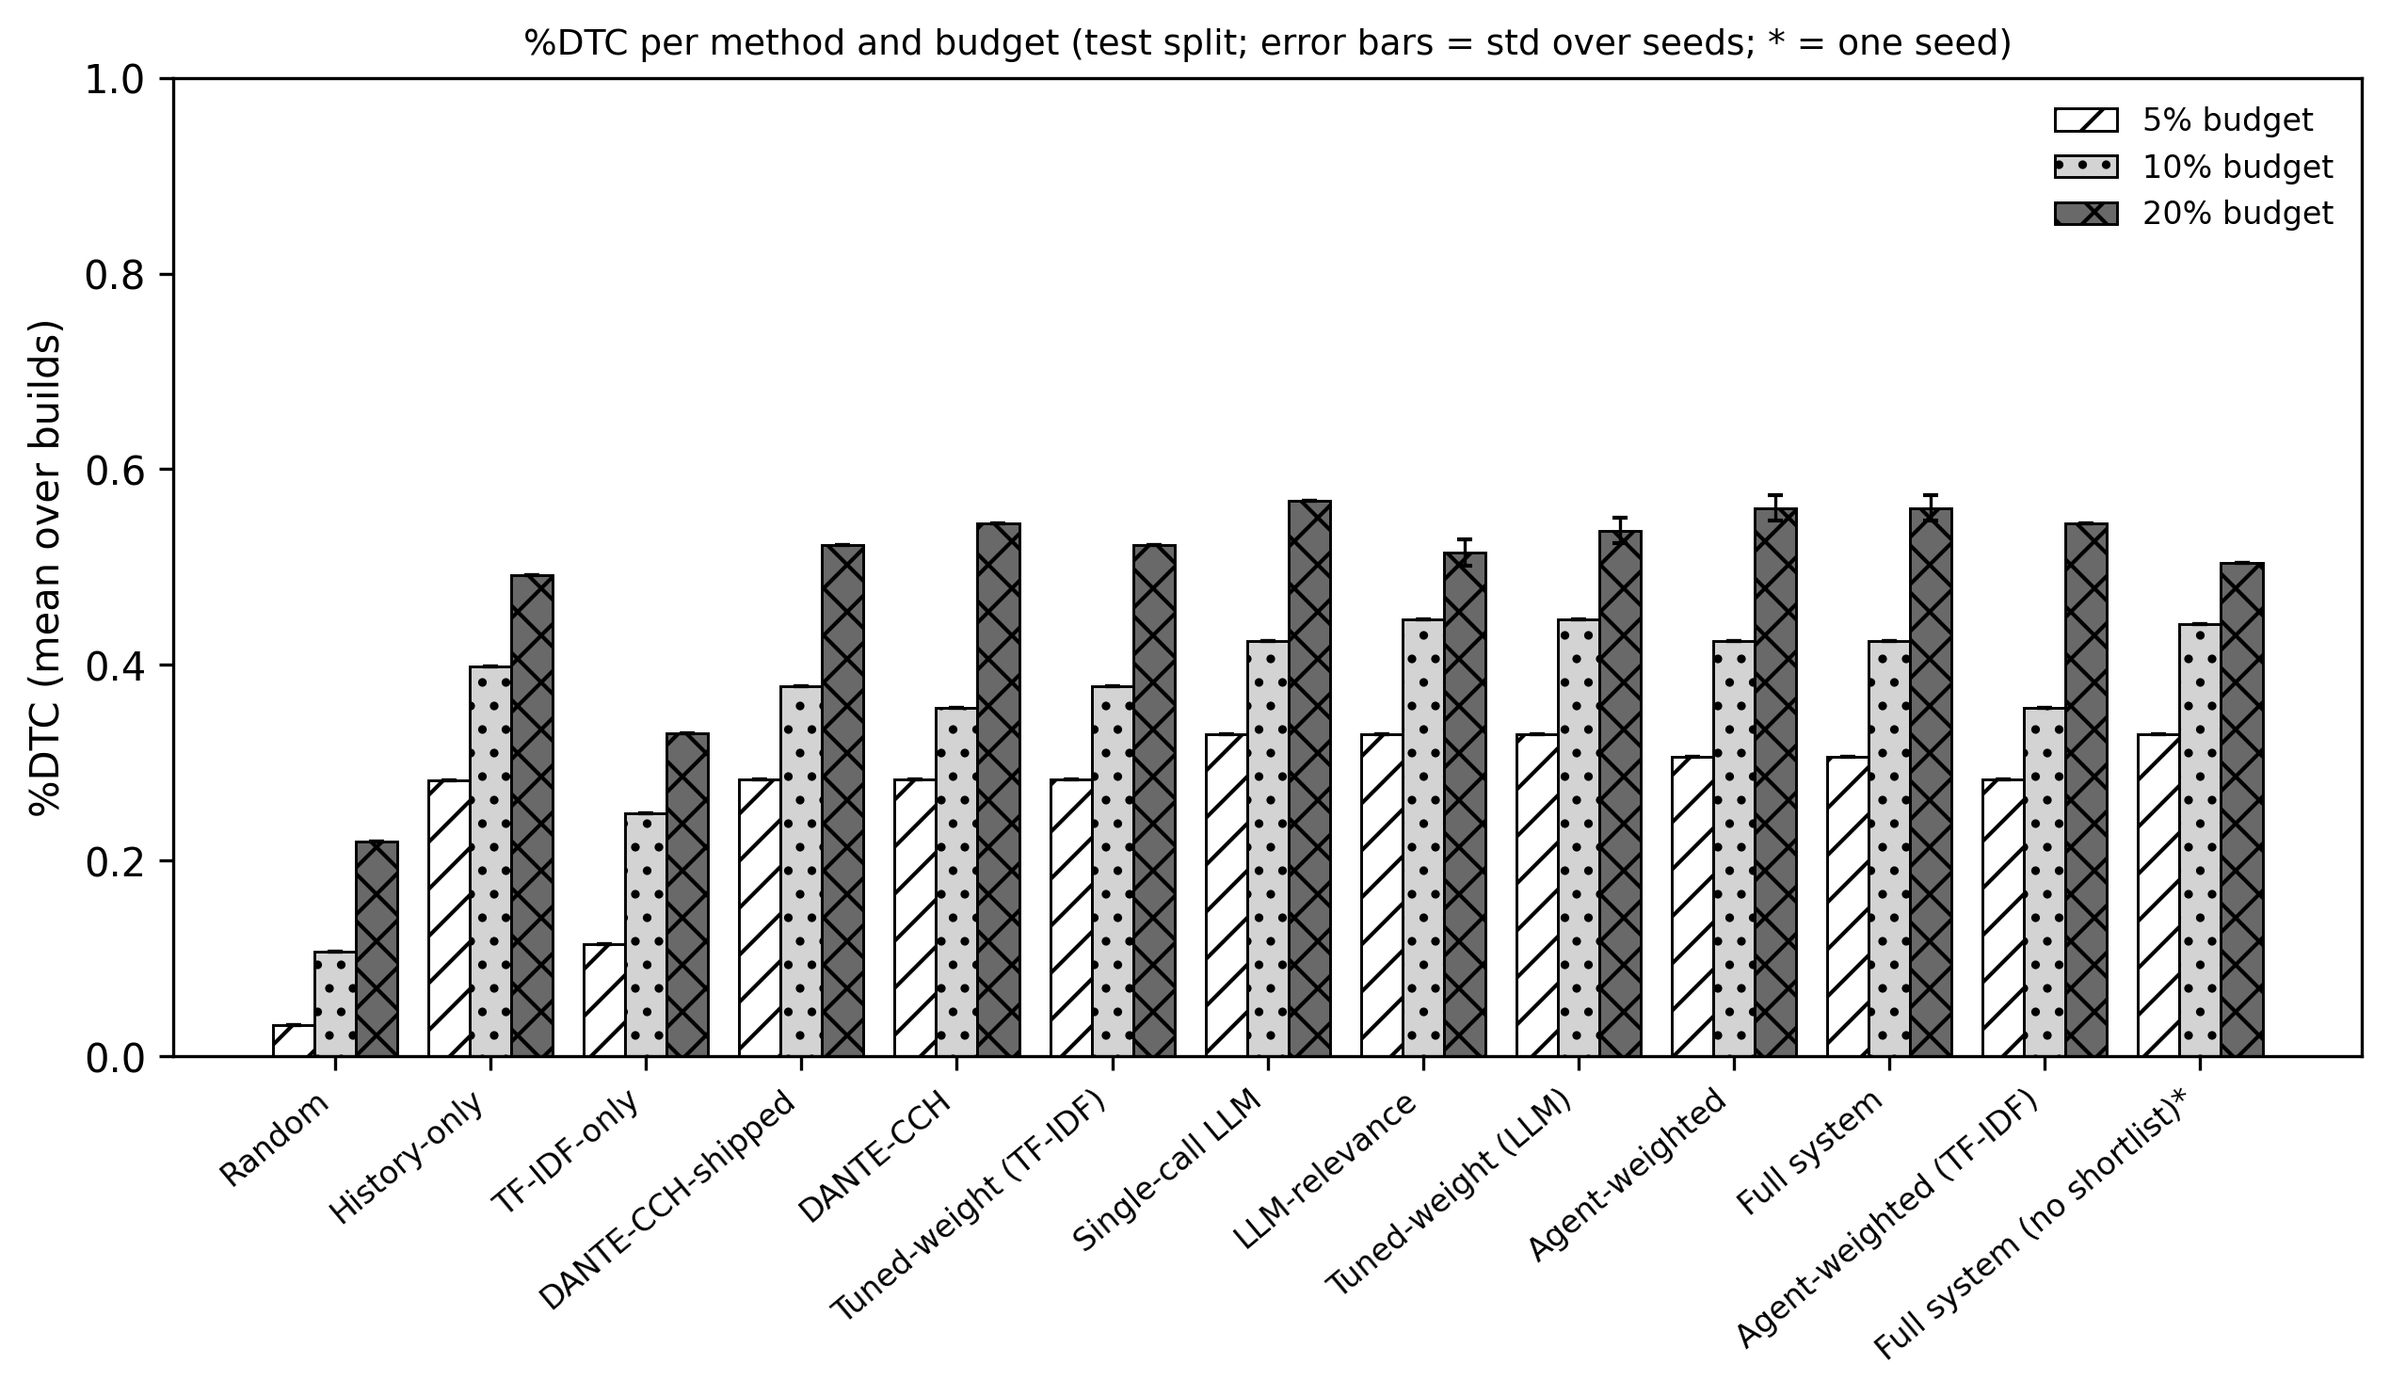
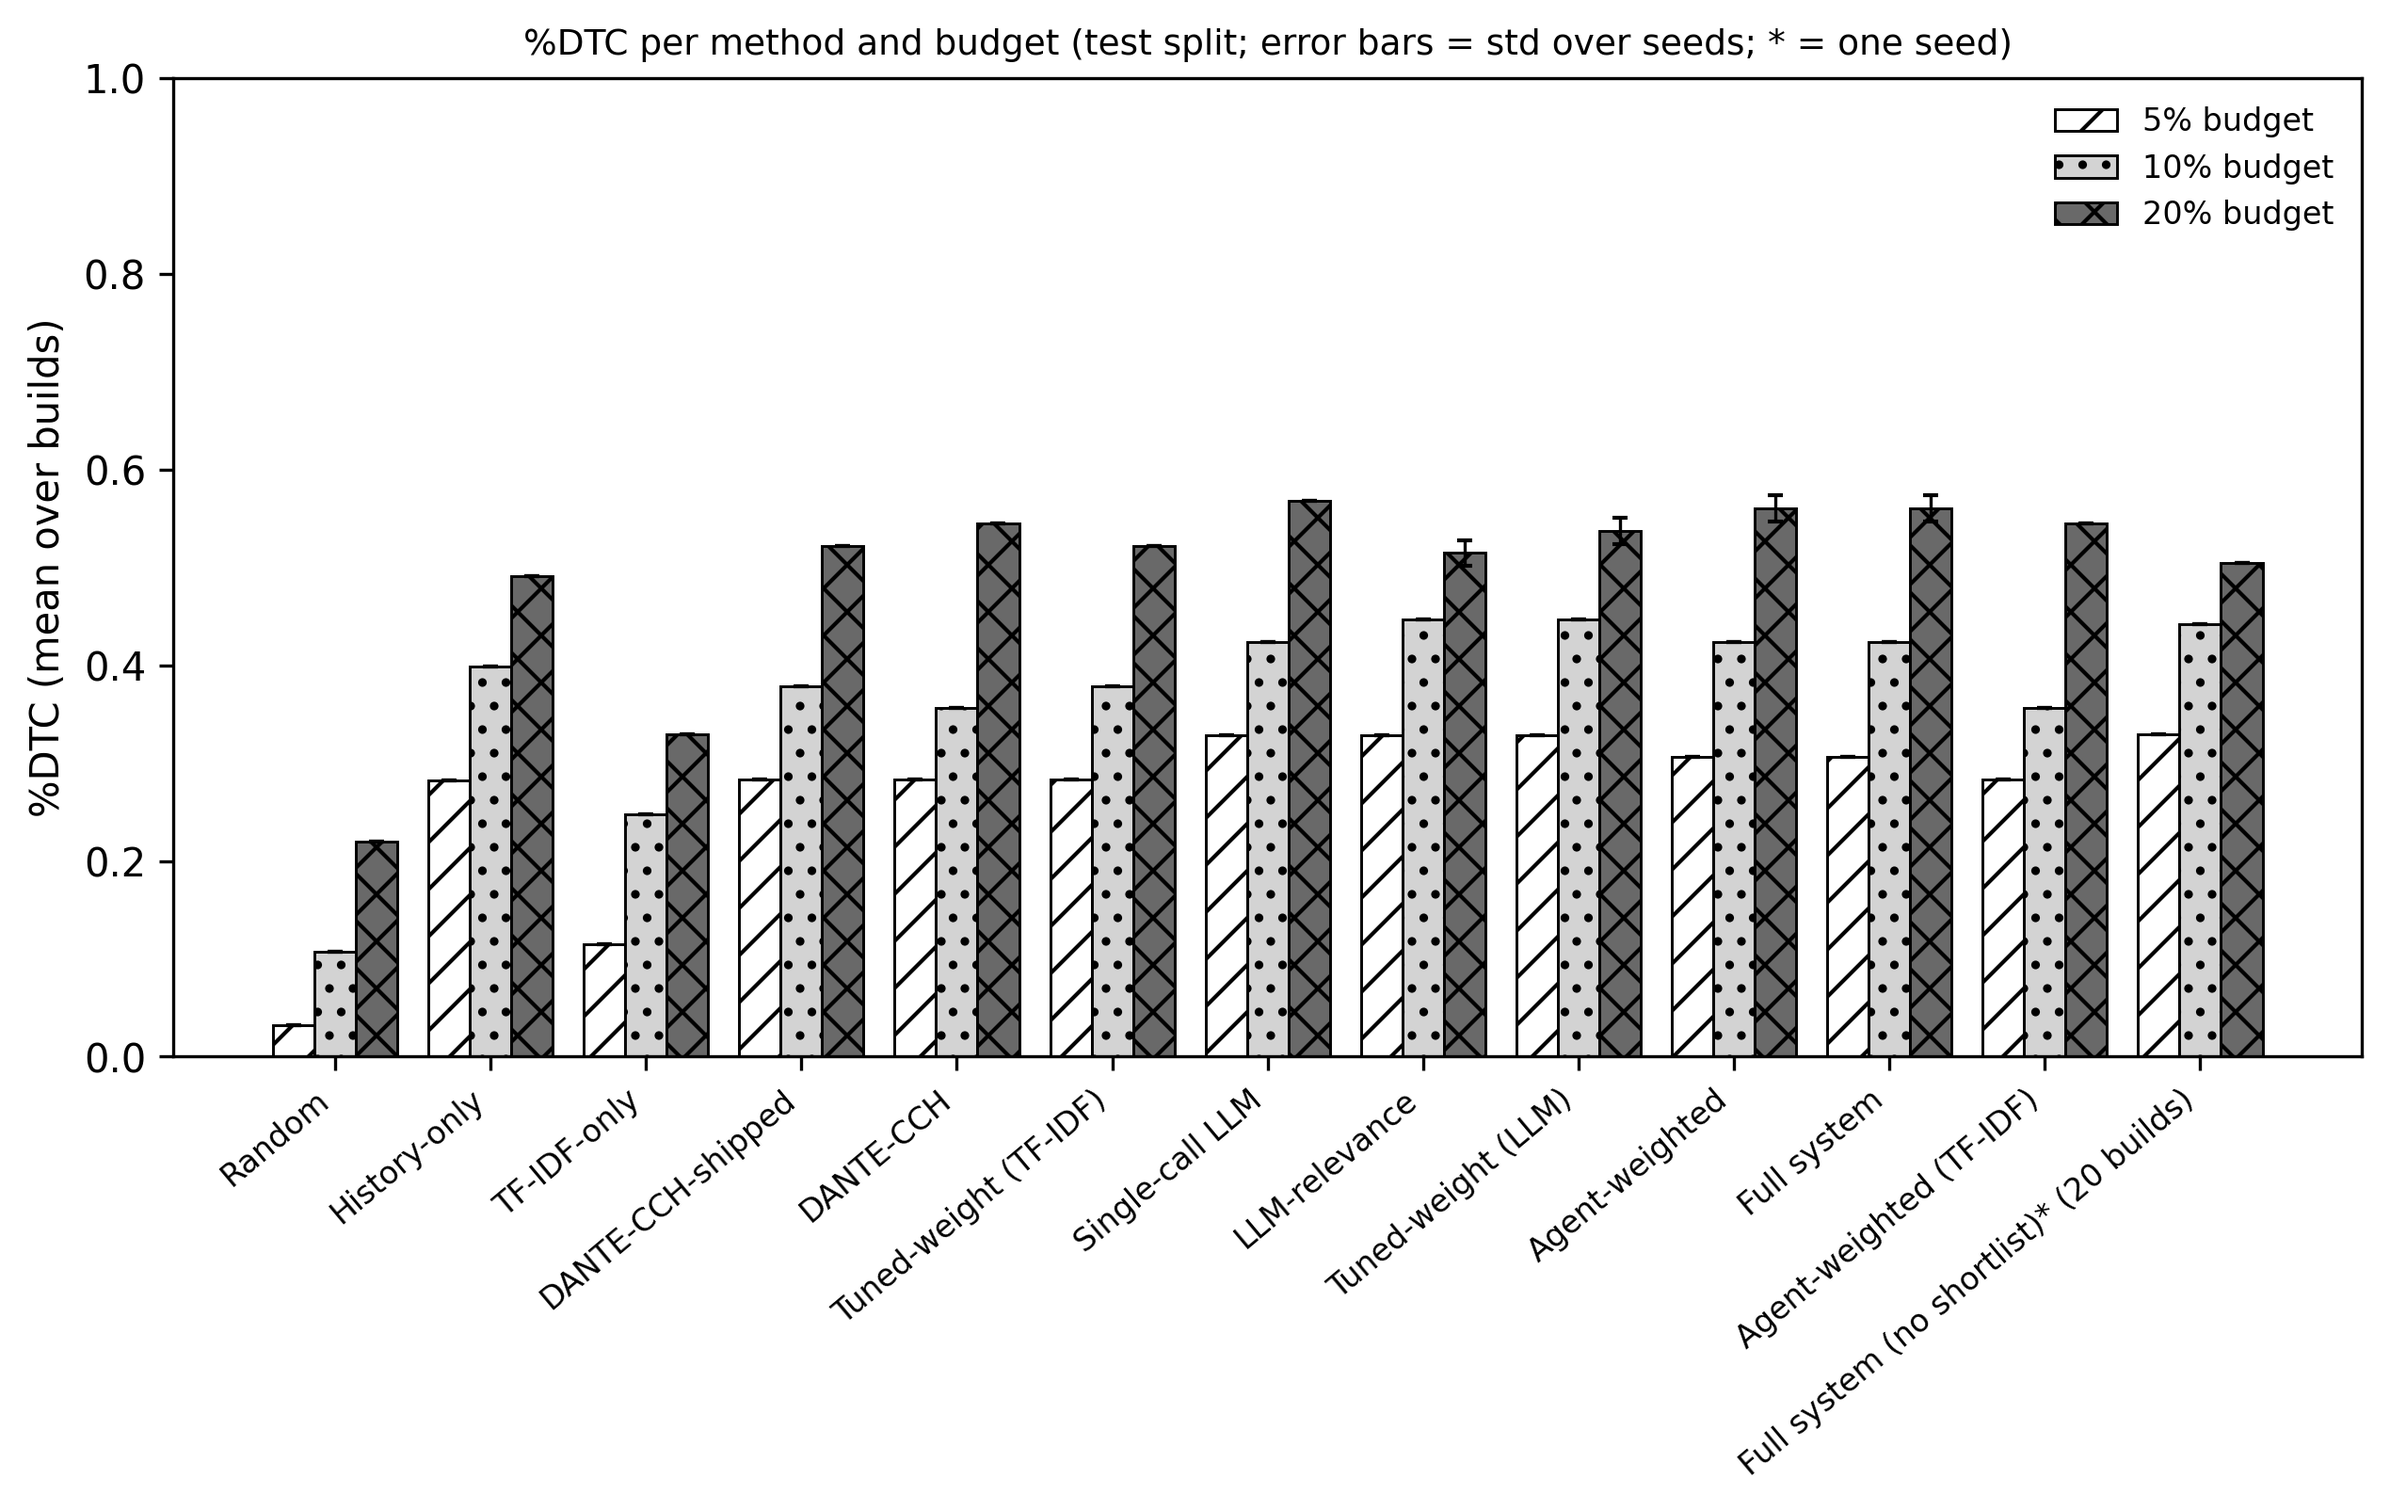
Show the build count of partial methods in the %DTC figure
Full system (no shortlist) covers 20 builds, not 44; its label now says so next to the one-seed mark.

diff --git a/src/eval/report.py b/src/eval/report.py
@@ -482,7 +482,12 @@ def fig_dtc_by_method(main, path):
         sub = main[main["budget"] == b].set_index("method").reindex(methods)
         _bar(ax, x + (i - (len(budgets) - 1) / 2) * width, sub["dtc_mean"].fillna(0), STYLES[i], width=width,
              yerr=sub["dtc_std"].fillna(0), capsize=2, error_kw={"elinewidth": 0.8}, label=f"{b:.0%} budget")
-    labels = [m + ("*" if int(main.loc[main["method"] == m, "seeds"].iloc[0]) == 1 else "") for m in methods]
+    most = int(main["n_builds"].max())
+    labels = []
+    for m in methods:
+        r = main[main["method"] == m].iloc[0]
+        labels.append(m + ("*" if int(r["seeds"]) == 1 else "")
+                      + (f" ({int(r['n_builds'])} builds)" if int(r["n_builds"]) < most else ""))
     ax.set_xticks(x)
     ax.set_xticklabels(labels, rotation=40, ha="right", fontsize=8)
     ax.set_ylabel("%DTC (mean over builds)")
